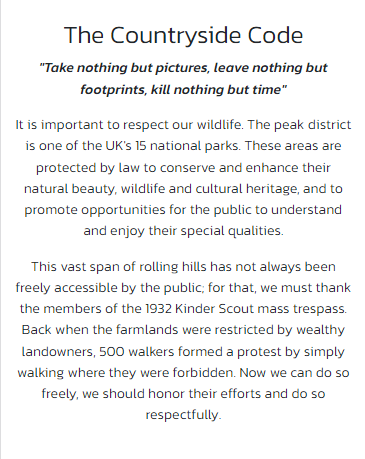
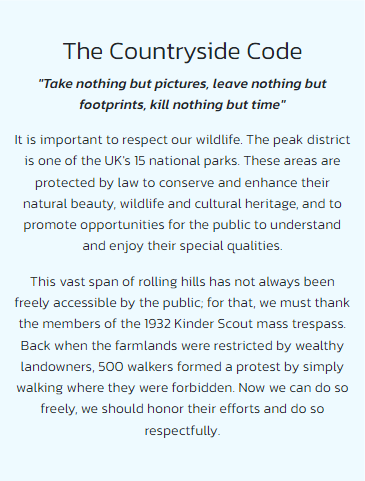
New rule added to apply spacing on small screens. New rule to apply light background on small screens. Choices on background and spacing on homepage explained in readme. Screenshot of small screen homepage section2 added.

Changed region(s): [[0.0301, 0.061, 0.9644, 0.915]]

diff --git a/index.html b/index.html
@@ -77,7 +77,7 @@
             </div>
 
             <!-- Second row with gray background -->
-            <div class="row gray-background-lg vertical-spacing-md">
+            <div class="row gray-background vertical-spacing-md">
                 <!-- Left column -->
                 <div class="d-none d-md-block col-md-6 col-lg-3">
                     <img src="assets/images/walkers.jpg" alt="Walkers" class="img-fluid activities">

diff --git a/assets/style.css b/assets/style.css
@@ -73,13 +73,6 @@ p a {
 
 }
 
-@media screen and (min-width: 768px) {
-    .gray-background-lg {
-        background-color: #eefaff;
-
-    }
-}
-
 @media screen and (max-width: 767px) {
     .gray-background-sm {
         background-color: #eefaff;

diff --git a/README.md b/README.md
@@ -101,4 +101,5 @@ This first section of the homepage features a heading and text informing users o
 ![Homepage section 2 - medium screens](assets/images/home-section2-md.png.png)
 ![Homepage section 2 - small screens](assets/images/home-section2-sm.png.png)
 
-This section is the first display of the light-blue background, visible on medium and large screens. This was not included in the small screen because none of the images in this section are included on a small screen. This is because I did not want to use a portrait image on small screens. If the blue background was applied
+This section is the first display of the light-blue background. On medium and large screens, this was easy to implement. However, on small screens this proved more challenging as the layout changes. I did not want to use a portrait image on the small screen. I instead used the two landscape images from section 3, as seen below. Therefore, for consistency, I had to apply the light blue background to the first image of section 3. I also had to create a new class to apply padding-bottom to the first section so that there is blank white space before the blue starts on small screens. This rule, .vertical-spacing-sm, is also applied to the first image in section 3.
+
